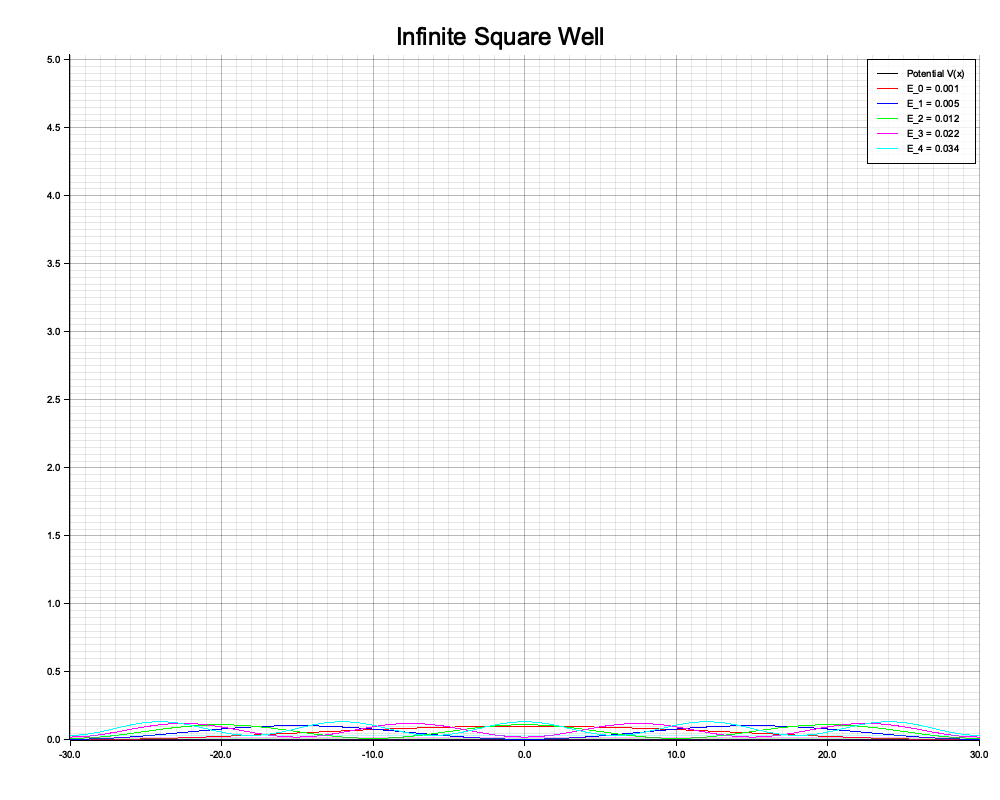
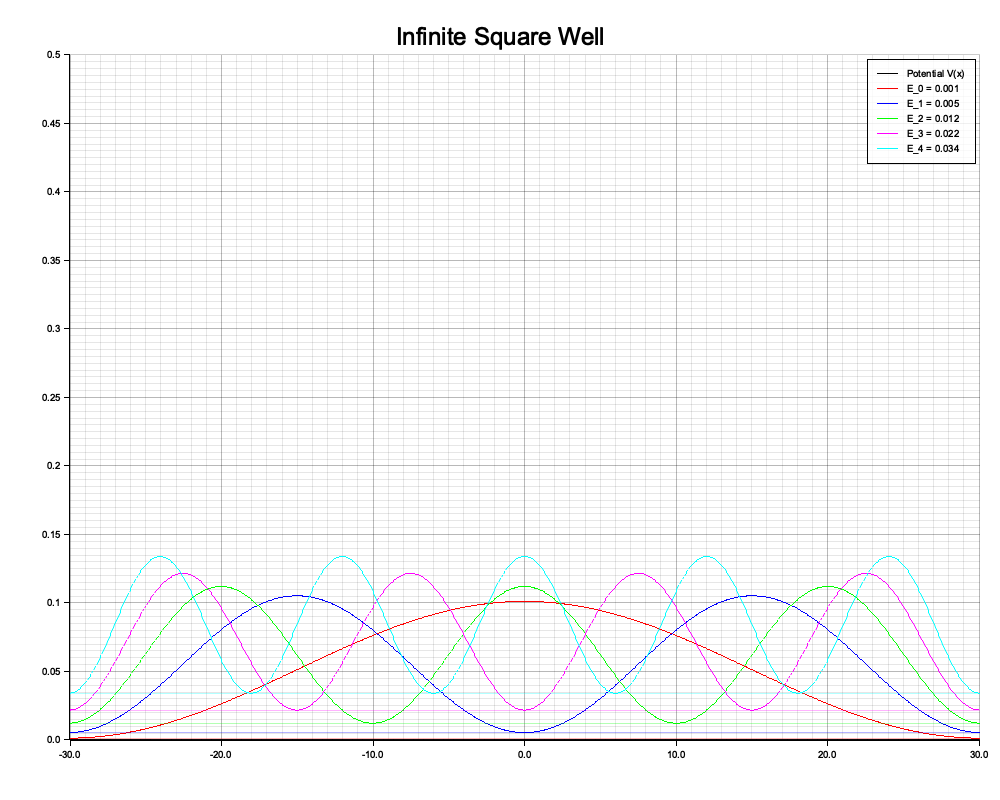
Fix ISW plot max y axis to 0.5

Changed region(s): [[0.031, 0.0625, 0.992, 0.9375]]

diff --git a/src/main.rs b/src/main.rs
@@ -218,7 +218,7 @@ fn main() -> Result<(), Box<dyn std::error::Error>> {
     println!("Solving Infinite Square Well...");
     let isw = Potential::InfiniteSquareWell;
     let results_isw = solve_tise(&isw, num_states);
-    plot_results(&isw, &results_isw, "infinite_square_well.png", "Infinite Square Well", results_isw.last().unwrap().0 + 5.0)?;
+    plot_results(&isw, &results_isw, "infinite_square_well.png", "Infinite Square Well", 0.5)?;
     
     println!("Solving Finite Square Well...");
     let fsw = Potential::FiniteSquareWell { width: 5.0, depth: 15.0 };
